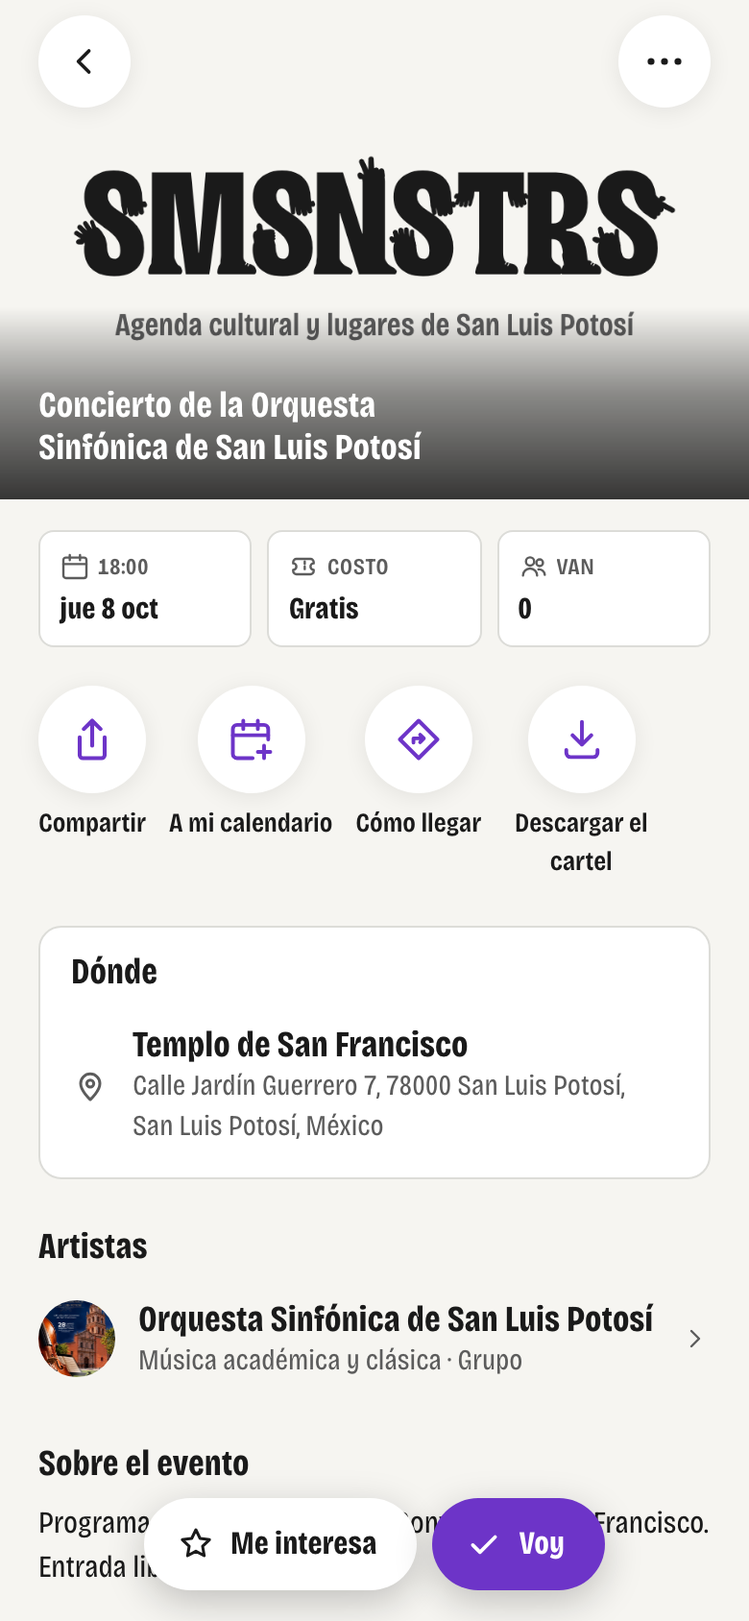
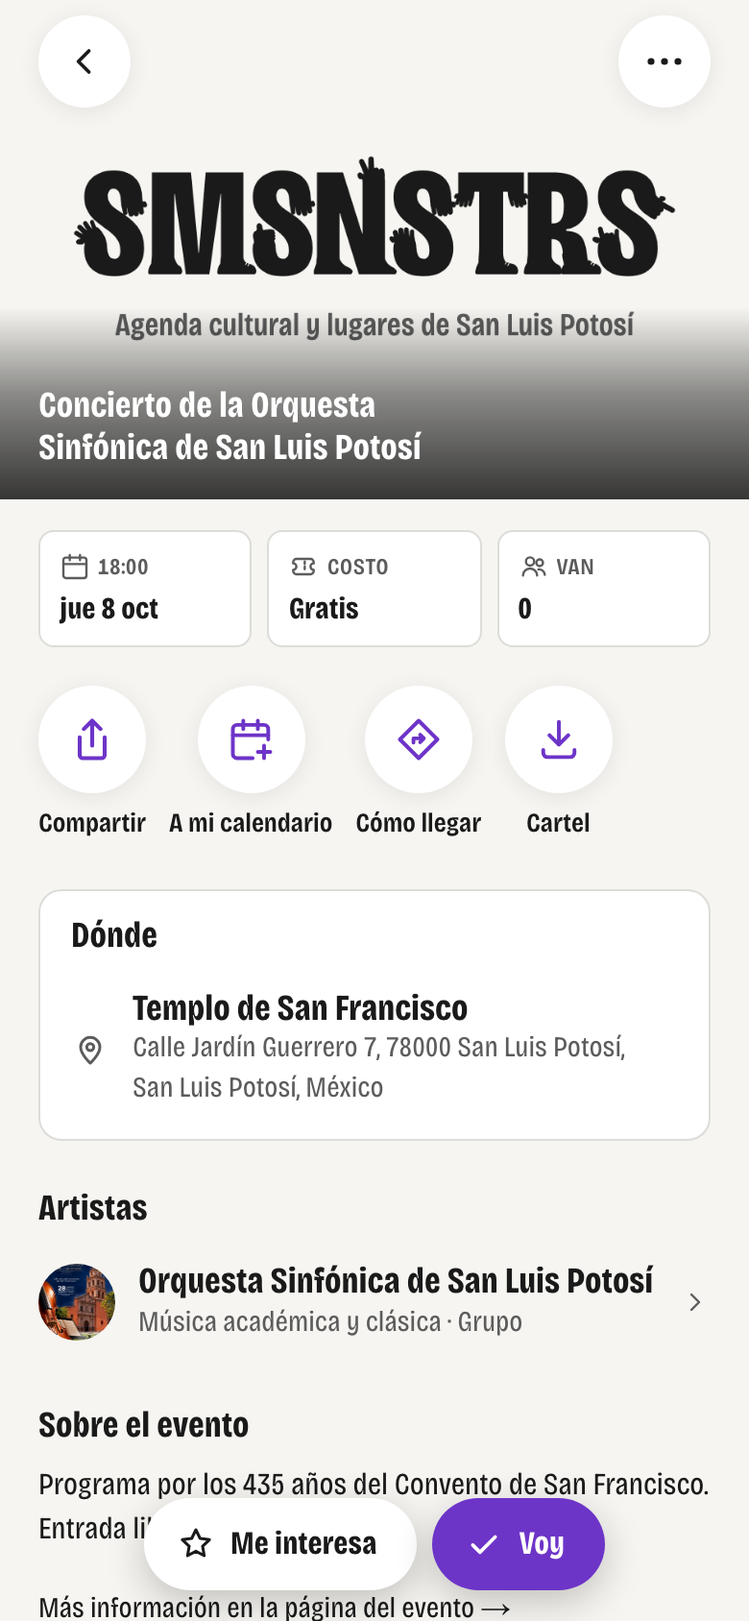
OL-317: letrero corto en la ficha y comentario del plugin corregido
En la ficha del evento el botón vuelve al letrero corto bajo el círculo (web «Cartel» / «Descargado» / «No se pudo»; app «En Fotos» / «Guardado» / «No se pudo»), con el nombre completo en aria-label en reposo; «Publicado» sigue con los textos completos. Se reponen los textos cortos como prop `corto` y se quita `claseTexto`. El comentario de FotosPlugin.swift ya no dice que la web cae en la hoja de compartir. Pruebas y capturas de la ficha (web y app) actualizadas.

diff --git a/src/components/BotonDescargarCartel.tsx b/src/components/BotonDescargarCartel.tsx
@@ -1,7 +1,7 @@
 "use client";
 
 import { useCallback, useEffect, useRef, useState, useSyncExternalStore, type MouseEvent, type ReactNode } from "react";
-import { destinoDelCartel, fotosDelSistema, textosDelCartel, type VentanaConFotos } from "@/lib/guardarCartel";
+import { destinoDelCartel, etiquetaDelCartel, fotosDelSistema, textosDelCartel, type VentanaConFotos } from "@/lib/guardarCartel";
 
 /** Cuánto se queda el aviso («Guardado en Fotos», «No se pudo guardar») antes de volver al texto de siempre. */
 const AVISO_MS = 4000;
@@ -15,8 +15,8 @@ type Props = {
   className: string;
   /** Lo que va antes del texto (el icono; en la ficha, dentro de su círculo). */
   icono?: ReactNode;
-  /** La clase del letrero (el texto va en su propio `<span>`): en la ficha, la que lo corta a dos líneas bajo su círculo. */
-  claseTexto?: string;
+  /** Letrero corto («Cartel», «En Fotos») para la ficha, donde va bajo un círculo como las demás acciones; el nombre completo queda en `aria-label`. */
+  corto?: boolean;
   /** Pide el cartel al montarse, para que el toque ya lo tenga y la descarga o el guardado salgan al instante. */
   precargar?: boolean;
 };
@@ -64,9 +64,10 @@ const hayFotosEnServidor = () => false;
  * La imagen vive en otro origen, así que se pide a `/api/cartel/[id]`, que la entrega como archivo. Es un enlace de verdad (mejora
  * progresiva, como `BotonCalendario`): sin JavaScript descarga igual.
  */
-export default function BotonDescargarCartel({ id, className, icono, claseTexto, precargar = false }: Props) {
+export default function BotonDescargarCartel({ id, className, icono, corto = false, precargar = false }: Props) {
   const conFotos = useSyncExternalStore(sinSuscripcion, hayFotos, hayFotosEnServidor);
-  const dice = textosDelCartel(destinoDelCartel({ conFotos }));
+  const destino = destinoDelCartel({ conFotos });
+  const dice = textosDelCartel(destino, corto);
   const href = `/api/cartel/${encodeURIComponent(id)}`;
   const [estado, setEstado] = useState<Estado>("reposo");
   const aviso = useRef<ReturnType<typeof setTimeout> | undefined>(undefined);
@@ -126,9 +127,9 @@ export default function BotonDescargarCartel({ id, className, icono, claseTexto,
   }
 
   return (
-    <a href={href} download className={className} onClick={alTocar} aria-busy={estado === "preparando" || undefined} aria-live="polite">
+    <a href={href} download className={className} onClick={alTocar} aria-label={corto && estado === "reposo" ? etiquetaDelCartel(destino) : undefined} aria-busy={estado === "preparando" || undefined} aria-live="polite">
       {icono}
-      <span className={claseTexto}>{dice[estado]}</span>
+      {dice[estado]}
     </a>
   );
 }

diff --git a/src/lib/guardarCartel.ts b/src/lib/guardarCartel.ts
@@ -32,8 +32,22 @@ export function destinoDelCartel({ conFotos }: { conFotos: boolean }): Destino {
 /** Lo que dice el botón en cada momento. Donde no se puede escribir en Fotos no se promete «Fotos»: se dice lo que hace, descargar. */
 export type Textos = { reposo: string; preparando: string; listo: string; fallo: string };
 
-export function textosDelCartel(destino: Destino): Textos {
-  return destino === "fotos"
-    ? { reposo: "Guardar en Fotos", preparando: "Guardando…", listo: "Guardado en Fotos", fallo: "No se pudo guardar" }
-    : { reposo: "Descargar el cartel", preparando: "Preparando…", listo: "Cartel descargado", fallo: "No se pudo descargar" };
+const COMPLETOS: Record<Destino, Textos> = {
+  fotos: { reposo: "Guardar en Fotos", preparando: "Guardando…", listo: "Guardado en Fotos", fallo: "No se pudo guardar" },
+  descarga: { reposo: "Descargar el cartel", preparando: "Preparando…", listo: "Cartel descargado", fallo: "No se pudo descargar" },
+};
+/** Los letreros cortos de la ficha (un círculo con su letrero debajo, como las demás acciones de la fila, a una línea). */
+const CORTOS: Record<Destino, Textos> = {
+  fotos: { reposo: "En Fotos", preparando: "Guardando…", listo: "Guardado", fallo: "No se pudo" },
+  descarga: { reposo: "Cartel", preparando: "Preparando…", listo: "Descargado", fallo: "No se pudo" },
+};
+
+/** Los textos del botón: completos («Publicado») o cortos (la ficha). */
+export function textosDelCartel(destino: Destino, corto = false): Textos {
+  return (corto ? CORTOS : COMPLETOS)[destino];
+}
+
+/** El nombre completo del botón en reposo: lo que lee el lector de pantalla cuando el letrero visible es corto. */
+export function etiquetaDelCartel(destino: Destino): string {
+  return COMPLETOS[destino].reposo;
 }

diff --git a/src/lib/guardarCartel.test.ts b/src/lib/guardarCartel.test.ts
@@ -1,5 +1,5 @@
 import { describe, expect, it } from "vitest";
-import { destinoDelCartel, fotosDelSistema, textosDelCartel } from "./guardarCartel";
+import { destinoDelCartel, etiquetaDelCartel, fotosDelSistema, textosDelCartel } from "./guardarCartel";
 
 const guardarFoto = async () => ({ guardado: true });
 
@@ -34,5 +34,16 @@ describe("destino y texto según el entorno", () => {
     const textos = textosDelCartel("descarga");
     expect(textos).toEqual({ reposo: "Descargar el cartel", preparando: "Preparando…", listo: "Cartel descargado", fallo: "No se pudo descargar" });
     expect(Object.values(textos).join(" ")).not.toMatch(/fotos/i);
+  });
+});
+
+describe("letreros cortos de la ficha", () => {
+  it("web: «Cartel» / «Descargado» / «No se pudo», con el nombre completo aparte", () => {
+    expect(textosDelCartel("descarga", true)).toEqual({ reposo: "Cartel", preparando: "Preparando…", listo: "Descargado", fallo: "No se pudo" });
+    expect(etiquetaDelCartel("descarga")).toBe("Descargar el cartel");
+  });
+  it("app: «En Fotos» / «Guardado» / «No se pudo», con el nombre completo aparte", () => {
+    expect(textosDelCartel("fotos", true)).toEqual({ reposo: "En Fotos", preparando: "Guardando…", listo: "Guardado", fallo: "No se pudo" });
+    expect(etiquetaDelCartel("fotos")).toBe("Guardar en Fotos");
   });
 });

diff --git a/apps/ios/ios/App/App/FotosPlugin.swift b/apps/ios/ios/App/App/FotosPlugin.swift
@@ -13,7 +13,7 @@ import UIKit
  *
  * Permiso mínimo: `PHAccessLevel.addOnly` (la app solo agrega a Fotos, nunca lee la fonoteca), con
  * `NSPhotoLibraryAddUsageDescription` en Info.plist. La primera vez iOS pregunta; si la persona dice que no, el método rechaza con el
- * código `permiso` y la web cae en la hoja de compartir (`src/components/BotonDescargarCartel.tsx`).
+ * código `permiso` y el botón de la web dice «No se pudo guardar» (`src/components/BotonDescargarCartel.tsx`; sin hoja de compartir ni descarga de respaldo).
  *
  * La web manda la imagen en base64 (`datos`) y su tipo (`tipo`). JPEG y PNG se guardan tal cual, byte por byte; cualquier otro formato que
  * iOS sepa leer (WebP, AVIF, GIF) se guarda como PNG para no depender de que Fotos lo acepte tal cual. Lo que no se pueda leer como imagen

diff --git a/src/app/eventos/[id]/page.tsx b/src/app/eventos/[id]/page.tsx
@@ -432,7 +432,7 @@ export default async function FichaEvento({ params, searchParams }: Params) {
                   <IconoDescarga />
                 </span>
               }
-              claseTexto={ficha.accionEtiqueta}
+              corto
             />
           )}
         </div>

diff --git a/docs/bitacora/2026/10/344-guardar-en-fotos.md b/docs/bitacora/2026/10/344-guardar-en-fotos.md
@@ -15,8 +15,8 @@ Un solo botón, `BotonDescargarCartel`, con dos comportamientos según el entorn
 
 | Dónde | Dice | Qué hace |
 |---|---|---|
-| La app de la tienda con el plugin (compilación 1.0 (5) en adelante) | «Guardar en Fotos» → «Guardando…» → «Guardado en Fotos» | Manda la imagen al plugin nativo, que la agrega a Fotos |
-| La web (Safari, la web instalada, cualquier navegador) | «Descargar el cartel» → «Preparando…» → «Cartel descargado» | Descarga el archivo (`<a download>` hacia el `blob:`, la función `guardar` de siempre) |
+| La app de la tienda con el plugin (compilación 1.0 (5) en adelante) | «Guardar en Fotos» → «Guardando…» → «Guardado en Fotos» (en la ficha, letrero corto: «En Fotos» → «Guardando…» → «Guardado») | Manda la imagen al plugin nativo, que la agrega a Fotos |
+| La web (Safari, la web instalada, cualquier navegador) | «Descargar el cartel» → «Preparando…» → «Cartel descargado» (en la ficha: «Cartel» → «Preparando…» → «Descargado») | Descarga el archivo (`<a download>` hacia el `blob:`, la función `guardar` de siempre) |
 | La app de una compilación vieja (sin el plugin) | como la web | descarga, como la web |
 
 Archivos nuevos:
@@ -27,8 +27,8 @@ Archivos nuevos:
 Archivos tocados:
 - `apps/ios/ios/App/App/MainViewController.swift` (registra el plugin) y `App.xcodeproj/project.pbxproj` (el archivo nuevo en el proyecto).
 - `apps/ios/ios/App/App/Info.plist`: `NSPhotoLibraryAddUsageDescription` = «Para guardar el cartel del evento en tus fotos».
-- `src/components/BotonDescargarCartel.tsx`: ya no usa `navigator.share` ni `canShare`; pierde las propiedades `titulo` (era solo de la hoja de compartir), `textos` y `etiqueta` (los textos salen de `lib/guardarCartel`); gana `claseTexto`: el texto va ahora en su propio `<span>`, para que en la ficha se corte a dos líneas bajo su círculo.
-- `src/app/nuevo/evento/Publicado.tsx` y `src/app/eventos/[id]/page.tsx`: quitan lo que ya no se pasa; la ficha le pone `ficha.accionEtiqueta` al letrero. Sin cambios de CSS.
+- `src/components/BotonDescargarCartel.tsx`: ya no usa `navigator.share` ni `canShare`; pierde las propiedades `titulo` (era solo de la hoja de compartir), `textos` y `etiqueta` (los textos salen de `lib/guardarCartel`); gana `corto`: la ficha pide los letreros cortos y el nombre completo va en `aria-label` en reposo (revisión del gestor).
+- `src/app/nuevo/evento/Publicado.tsx` y `src/app/eventos/[id]/page.tsx`: quitan lo que ya no se pasa; la ficha pasa `corto`. Sin cambios de CSS (`ficha.accionEtiqueta` existía antes para otras acciones y no se usa aquí).
 - `src/components/BotonDescargarCartel.componentes.test.mjs` y `src/app/nuevo/evento/AltaEvento.componentes.test.mjs`: ver «Pruebas».
 
 ## Cómo funciona
@@ -50,7 +50,7 @@ Archivos tocados:
 2. **Si Fotos falla en la app, no hay hoja de compartir de respaldo.** El encargo original decía «No se pudo guardar y la hoja de compartir como salida»; el cambio del founder («en web que se descargue como promete», «quita el camino de `navigator.share` con archivos del botón») lo quita del botón. Tampoco cae en la descarga: en el WKWebView de la app un `<a download>` hacia un `blob:` no tiene a dónde ir y podría sacar a la persona de la pantalla (el plugin de la app no implementa descargas). Con el permiso negado, la salida es «Compartir» (que no cambió) o activarlo en Ajustes. Si el founder quiere el respaldo, es una línea en `guardarCartel.ts` (`destinoDeRespaldo` se quitó, estaba en la primera versión).
 3. **La app vieja descarga con un `<a download>` hacia un `blob:`, no con la hoja de compartir** (como pidió el gestor). Antes (OL-304) en la app se abría la hoja con `navigator.share`. Es una regresión posible solo para quien tenga una compilación anterior a la 1.0 (5) y toque el botón: **no probé qué hace el WKWebView con esa descarga** (no hay compilación vieja a mano). Ver la lista para el iPhone.
 4. **Icono: el de descarga de siempre** (`IconoDescarga`, flecha a una bandeja). El set no tiene icono de foto y la flecha sirve para las dos cosas; no dibujé uno nuevo (suben `medidasEnDuro` del inventario).
-5. **Los avisos de cada momento** (`guardarCartel.ts`): app, «Guardando…» / «Guardado en Fotos» / «No se pudo guardar»; web, «Preparando…» / «Cartel descargado» / «No se pudo descargar» (los de OL-304, sin cambio). En la ficha el letrero ahora es el mismo texto completo («Descargar el cartel» o «Guardar en Fotos»), a dos líneas bajo su círculo: antes era la palabra corta «Cartel» con su nombre completo aparte. Con cuatro acciones caben en una sola fila a 390 (capturas 01 y 06). El nombre accesible es el letrero visible (ya no hace falta `aria-label`).
+5. **Los avisos de cada momento** (`guardarCartel.ts`): app, «Guardando…» / «Guardado en Fotos» / «No se pudo guardar»; web, «Preparando…» / «Cartel descargado» / «No se pudo descargar» (los de OL-304, sin cambio). **En la ficha, letrero corto bajo el círculo, como en OL-304** (ajuste del gestor tras revisar: con el texto completo a dos líneas se rompía el ritmo de la fila): web «Cartel» / «Descargado» / «No se pudo»; app «En Fotos» / «Guardado» / «No se pudo»; «Preparando…» y «Guardando…» iguales. En reposo el nombre completo («Descargar el cartel», «Guardar en Fotos») va en `aria-label` (se quita mientras avisa, para que se lea el aviso), como hacía la propiedad `etiqueta`; `BotonDescargarCartel` lo recibe como `corto`. En «Publicado» siguen los textos completos.
 6. **Siguen existiendo la propiedad `precargar`** (trae el cartel al montarse): la hoja de compartir ya no necesita el toque instantáneo, pero con el archivo ya en memoria la descarga o el guardado salen sin esperar la red; «Publicado» la sigue pidiendo, la ficha no (cada precarga es una salida de Storage).
 7. **«Publicado» se probó en la app solo con el plugin simulado** (no hay sesión en el simulador): la prueba de componentes pone `window.Capacitor.Plugins.Fotos` y comprueba que el toque le entrega el PNG. El plugin real se probó en la ficha, que es la misma pieza (ver «Pruebas»).
 8. **Mejora gratis (miniatura con «Añadir a Fotos»): ya está.** La miniatura de «Publicado» (`Renglon` → `ui/Imagen`) y la portada de la ficha (`Cartel` → `ui/Imagen`) son `<img>` de verdad (`next/image`, o `<img>` simple si no se optimiza), no fondos CSS. En Safari mantener presionado debería ofrecer «Añadir a Fotos». Dos matices: (a) la miniatura va dentro de un enlace (el menú también ofrece el enlace); (b) el visor a pantalla completa (`VisorImagen`, `-webkit-touch-callout: none` y `touch-action: none` por el pellizco y el arrastre) **bloquea** ese menú, a propósito. No lo toqué (componente firmado; el gesto largo choca con el pellizco). Dentro de la app, `.app-nativa *` quita el menú en todo (OL-205): ahí manda el botón.
@@ -58,9 +58,9 @@ Archivos tocados:
 
 ## Pruebas
 
-- `npm run lint` (solo el aviso anterior de `VisorImagen.componentes.test.mjs`), `npm run typecheck`, `npm test` (2260 pruebas en 152 archivos; +10 de esta pieza en `guardarCartel.test.ts`), `npm run inventario` sin novedades, `npm run medir` (26 pantallas × 4 anchos, sin novedades; la ficha del evento no enseña el botón en la prueba, como antes).
+- `npm run lint` (solo el aviso anterior de `VisorImagen.componentes.test.mjs`), `npm run typecheck`, `npm test` (2262 pruebas en 152 archivos; +8 de esta pieza en `guardarCartel.test.ts`), `npm run inventario` sin novedades, `npm run medir` (26 pantallas × 4 anchos, sin novedades; la ficha del evento no enseña el botón en la prueba, como antes).
 - `apps/ios`: `npm install` y `npx cap sync ios` correctos, sin plugins nuevos (5 de siempre). `xcodebuild` para el simulador, sin firmar: **BUILD SUCCEEDED**.
-- Pruebas de componentes (`test:componentes`) de lo tocado: `BotonDescargarCartel` 8 pruebas, `AltaEvento` 83. Las de `BotonDescargarCartel` cubren: web que comparte archivos, el botón **descarga** con el nombre de la ruta, dice «Cartel descargado», vuelve a su texto a los 4 s y **nunca** llama a `navigator.share`; web sin `share`; la ruta que falla («No se pudo descargar», no sale de la pantalla, el siguiente toque vuelve a pedirlo); `precargar`; la ficha (el letrero en su `<span>` con la clase que se le da); **la app con plugin** («Guardar en Fotos», «Guardando…», el plugin recibe el PNG tal cual en base64 y su tipo, ni hoja ni descarga, «Guardado en Fotos», vuelve a los 4 s); **Fotos que falla** por permiso o por otra causa (no abre hoja ni descarga, no sale de la pantalla, el siguiente toque reintenta); **la app vieja** (Capacitor sin plugin: «Descargar el cartel» y descarga). `AltaEvento`: el test de «con cartel» ahora comprueba la descarga (antes la hoja) y que `navigator.share` no se llamó; uno nuevo prueba «Publicado» en la app con «Guardar en Fotos». Las pruebas anteriores cambiaron de texto (de «Descargar el cartel»/«Cartel descargado» con hoja a descarga), como pide el cambio; ninguna se borró.
+- Pruebas de componentes (`test:componentes`) de lo tocado: `BotonDescargarCartel` 9 pruebas, `AltaEvento` 83. Las de `BotonDescargarCartel` cubren: web que comparte archivos, el botón **descarga** con el nombre de la ruta, dice «Cartel descargado», vuelve a su texto a los 4 s y **nunca** llama a `navigator.share`; web sin `share`; la ruta que falla («No se pudo descargar», no sale de la pantalla, el siguiente toque vuelve a pedirlo); `precargar`; la ficha en la web (letrero «Cartel», `aria-label` «Descargar el cartel» en reposo y sin él al avisar «Descargado»; «No se pudo» si falla) y en la app (letrero «En Fotos», `aria-label` «Guardar en Fotos», «Guardado» y «No se pudo»); **la app con plugin** («Guardar en Fotos», «Guardando…», el plugin recibe el PNG tal cual en base64 y su tipo, ni hoja ni descarga, «Guardado en Fotos», vuelve a los 4 s); **Fotos que falla** por permiso o por otra causa (no abre hoja ni descarga, no sale de la pantalla, el siguiente toque reintenta); **la app vieja** (Capacitor sin plugin: «Descargar el cartel» y descarga). `AltaEvento`: el test de «con cartel» ahora comprueba la descarga (antes la hoja) y que `navigator.share` no se llamó; uno nuevo prueba «Publicado» en la app con «Guardar en Fotos». Las pruebas anteriores cambiaron de texto (de «Descargar el cartel»/«Cartel descargado» con hoja a descarga), como pide el cambio; ninguna se borró.
 - **Simulador (iPhone 17 Pro propio, iOS 26.3; el «FLOWYA iPhone 15 Pro» no arrancó la app: «system shell probably crashed»):** se compiló la app sin firmar con `server.url` temporal a la web local (`next build && next start -p 3101` contra el respaldo local con un «Storage» inventado, puertos 8843 y 3101 porque el 8842 lo usaba otro chat) y un guion temporal en `layout.tsx` que tocaba solo el botón (el panel de control del simulador no estaba concedido: no pude tocar a mano). **Todo lo temporal se revirtió antes del commit** (`server.url`, el guion, y `Package.resolved`, que Xcode había regenerado). Resultado:
   - Con el permiso concedido (`simctl privacy grant photos-add`): la ficha de la app dice «Guardar en Fotos»; al tocar, «Guardado en Fotos». En la fototeca del simulador aparece **`IMG_0007.PNG`, 1200×630, agregada en ese momento, con el mismo `shasum` que el archivo de origen** (`7da97cd1…`): la imagen llegó a Fotos byte por byte. (No pude abrir la app Fotos para fotografiarla: su pantalla de «Novedades» pide un toque y no tengo cómo dárselo; la evidencia es el archivo y la base `Photos.sqlite`.)
   - Con el permiso revocado (`revoke photos-add`): «No se pudo guardar», sin hoja, sin descarga y sin salir de la pantalla; la fototeca no cambió.
@@ -68,13 +68,13 @@ Archivos tocados:
 
 ## Capturas (`docs/rediseno/capturas-344/`; las de Chrome, 390×844 a 2×; las de la app, 402×874 del simulador a 3× y reducidas a 2×; todas abiertas y revisadas)
 
-1. `344-01-ficha-web-descargar-el-cartel`: la ficha del evento en la web a 390: portada, los tres números y, en una sola fila, «Compartir», «A mi calendario», «Cómo llegar» y «Descargar el cartel» (con la flecha, el letrero a dos líneas).
-   `344-01b-ficha-web-cartel-descargado`: lo mismo tras tocar: el botón dice «Cartel descargado»; la descarga entregó `cartel-concierto-de-la-orquesta-sinfonica-de-san-luis-potosi.png`.
+1. `344-01-ficha-web-descargar-el-cartel`: la ficha del evento en la web a 390: portada, los tres números y, en una sola fila con los letreros a una línea, «Compartir», «A mi calendario», «Cómo llegar» y «Cartel» (la flecha de descarga).
+   `344-01b-ficha-web-cartel-descargado`: lo mismo tras tocar: el letrero dice «Descargado»; la descarga entregó `cartel-concierto-de-la-orquesta-sinfonica-de-san-luis-potosi.png`.
 2. `344-02-publicado-web-descargar-el-cartel` y `344-03-publicado-web-cartel-descargado`: «Publicado» con cartel en la web: sello verde, «Evento publicado», la tarjeta con su miniatura y, abajo, «Compartir» violeta, el secundario «Descargar el cartel» (y luego «Cartel descargado») y «Publicar otro» subrayado. Igual que `capturas-332/332-02` salvo la hoja de compartir que ya no se abre.
 3. `344-04-publicado-app-guardar-en-fotos` y `344-05-publicado-app-guardado-en-fotos`: lo mismo con el plugin simulado (la app): el secundario dice «Guardar en Fotos» y luego «Guardado en Fotos».
-4. `344-06-app-ficha-guardado-en-fotos` (simulador, la app real): la ficha con «Guardado en Fotos» bajo el círculo de descarga, cuatro acciones en una fila. Notar que la portada muestra el logotipo y no el cartel porque el respaldo local sirve la imagen desde otro puerto: es del respaldo, no de la pieza.
-   `344-07-app-ficha-guardar-en-fotos`: la misma ficha en reposo, «Guardar en Fotos» a dos líneas.
-   `344-08-app-ficha-no-se-pudo-guardar-recorte`: recorte de la fila de acciones con el permiso negado: «No se pudo guardar» a dos líneas.
+4. `344-06-app-ficha-guardado` (simulador, la app real): la ficha con «Guardado» bajo el círculo de descarga, cuatro acciones en una fila a una línea. La portada muestra el logotipo y no el cartel porque el respaldo local sirve la imagen desde otro puerto: es del respaldo, no de la pieza.
+   `344-07-app-ficha-en-fotos`: la misma ficha en reposo, «En Fotos».
+   `344-08-app-ficha-no-se-pudo`: con el permiso revocado, «No se pudo» (captura completa de la ficha).
 
 ## Para probar en el iPhone (el founder)
 

diff --git a/docs/ops/OPEN_LOOPS.md b/docs/ops/OPEN_LOOPS.md
@@ -14,7 +14,7 @@
 
 ## Ahora
 
-- **OL-317 · «Guardar en Fotos» el cartel del evento (2026-10-06).** Pedido del founder («agrega la opción de guardar en Fotos del celular… lo más práctico es eso») y, a mitad de la pieza, «en web que se descargue como promete». Operador Claude Sonnet 5.5 (agente del gestor IV), rama `guardar-en-fotos` sobre `origin/main` `54bfb80f`, bitácora [344](../bitacora/2026/10/344-guardar-en-fotos.md), capturas `docs/rediseno/capturas-344/` (9). Sin migraciones; **pide la compilación 1.0 (5) de TestFlight** (código nativo nuevo). Un solo botón, `BotonDescargarCartel`, dos comportamientos: en la app con el plugin dice «Guardar en Fotos» y manda la imagen (base64) a `FotosPlugin` (`PHPhotoLibrary`, `addOnly`, `NSPhotoLibraryAddUsageDescription`; JPEG y PNG byte por byte, lo demás como PNG; plugin local en Swift y no `@capacitor-community/media` por SDWebImage y su superficie de lectura); en la web y en la app vieja dice «Descargar el cartel» y descarga el archivo (`<a download>` hacia el `blob:`), sin `navigator.share`. Si Fotos falla: «No se pudo guardar», sin respaldo (ni hoja ni descarga). `src/lib/guardarCartel.ts` decide destino y textos. Probado: 2260 unitarias, componentes (8 del botón, 83 de `AltaEvento`), `xcodebuild` para simulador sin firmar y, en un simulador, el cartel llegó a Fotos con el mismo `shasum` que el original. Falta el iPhone real. Las miniaturas ya son `<img>` (el visor a pantalla completa bloquea el menú «Añadir a Fotos» a propósito).
+- **OL-317 · «Guardar en Fotos» el cartel del evento (2026-10-06).** Pedido del founder («agrega la opción de guardar en Fotos del celular… lo más práctico es eso») y, a mitad de la pieza, «en web que se descargue como promete». Operador Claude Sonnet 5.5 (agente del gestor IV), rama `guardar-en-fotos` sobre `origin/main` `54bfb80f`, bitácora [344](../bitacora/2026/10/344-guardar-en-fotos.md), capturas `docs/rediseno/capturas-344/` (9). Sin migraciones; **pide la compilación 1.0 (5) de TestFlight** (código nativo nuevo). Un solo botón, `BotonDescargarCartel`, dos comportamientos: en la app con el plugin dice «Guardar en Fotos» y manda la imagen (base64) a `FotosPlugin` (`PHPhotoLibrary`, `addOnly`, `NSPhotoLibraryAddUsageDescription`; JPEG y PNG byte por byte, lo demás como PNG; plugin local en Swift y no `@capacitor-community/media` por SDWebImage y su superficie de lectura); en la web y en la app vieja dice «Descargar el cartel» y descarga el archivo (`<a download>` hacia el `blob:`), sin `navigator.share`. Si Fotos falla: «No se pudo guardar», sin respaldo (ni hoja ni descarga). `src/lib/guardarCartel.ts` decide destino y textos. Probado: 2262 unitarias, componentes (8 del botón, 83 de `AltaEvento`), `xcodebuild` para simulador sin firmar y, en un simulador, el cartel llegó a Fotos con el mismo `shasum` que el original. Falta el iPhone real. Las miniaturas ya son `<img>` (el visor a pantalla completa bloquea el menú «Añadir a Fotos» a propósito).
 - **OL-314 · Prototipo firmado: alta de lugar y de artista por pasos (2026-10-06).** Pieza del Gestor IV, solo prototipo: `docs/rediseno/prototipos/lugar-artista-por-pasos.html` (rama `prototipo-lugar-artista-pasos`), bitácora [342](../bitacora/2026/10/342-lugar-artista-por-pasos-firmado.md). Firmado por el founder en la versión 6 tras seis vueltas: sin pantalla de elegir (la tira de tipos al pie del primer paso, marcada según el «+»); el lugar lleva horario, con «Agregar otro horario» para varias franjas sin tope y lo que se enseña lo estructura el sistema (ley de Postel: ordena por día, une horas encimadas, agrupa días iguales, dice qué días cierra); la subcategoría del artista se pregunta tras la disciplina con las ya usadas primero, «Otra…» y «Seguir sin especificar»; icono de etiqueta para la disciplina; **los negocios SÍ entran al directorio** (Decidido abajo). Construcción: OL-315 (lugar) y OL-316 (artista).
 - **OL-313 · La tira Evento · Lugar · Artista vuelve en el primer paso del alta de evento (2026-10-06).** Corrección urgente tras OL-312: el founder vio en producción que el «+» ya no ofrecía registrar un lugar o un artista («aunque no estén las nuevas versiones no elimines lo que ya tenemos»). Operador Claude Sonnet 5.5 (agente del gestor IV), rama `tira-en-el-primer-paso` sobre `origin/main` `bc1f983d`, bitácora [341](../bitacora/2026/10/341-tira-en-el-primer-paso.md), capturas `docs/rediseno/capturas-341/`. Sin migraciones. `src/app/nuevo/TiraTipos.tsx` (+ CSS) es la tira de `Alta.tsx` sacada a una pieza compartida (misma pinta; `destinos` = enlace, botón o esta pantalla); `AltaEvento` la pinta solo en el primer paso (no durante la espera del cartel) con «Evento» marcado (`aria-current`) y Lugar y Artista como enlaces a `enlaceAltaDeTipo` (`/nuevo?tipo=lugar|artista`, con `&ciudad=` si el flujo la trae); reemplaza la entrada y pasa por la guardia de salida (en el primer paso no pregunta; con algo escrito y Atrás, sí). `/nuevo` se ve y se comporta igual. Medición: el presupuesto de `s15` sube de 20 a 21 nodos (la tira suma 4 sobre los 17 de hoy). Pendiente: probar en el iPhone.
 - **OL-312 · El alta por pasos es la única alta de evento (2026-10-06).** Pieza 6 del plan de la bitácora 323. Operador Claude Opus 5.5 (agente del gestor IV), rama `nuevo-por-pasos` sobre `origin/main` `e3b4a1c2`, bitácora [340](../bitacora/2026/10/340-nuevo-por-pasos.md), capturas `docs/rediseno/capturas-340/`. Sin migraciones. `/nuevo` sin tipo, con `tipo=evento` o con `lugar`/`artista`/`desde` responde 308 (en `src/proxy.ts`; la página lo repite) a `/nuevo/evento` con esos datos; `/nuevo/evento` arranca con el lugar (`?lugar=`, «¿Dónde es?» no se pregunta), el artista (`?artista=`) o el evento que se duplica (`?desde=`: nombre, sitio, costo, quién, descripción y enlace; entra en «¿Qué día es?»), lo que vino al abrir no lo pisa el cartel y la ✕ vuelve a la ficha de entrada (`arranque.ts`). Enlaces directos (`enlaceAltaEvento`) en el «+», las fichas de lugar, artista y evento, la hoja de ciudades y Entrar. `FormularioEvento` solo edita; se retiran `TarjetaCartel`, `borrador.ts`, la redirección `?nuevo=1` de `crearEvento` y su aviso en la ficha, y lo que solo servía al alta vieja (`sugerirInicio`, partes de `estadoCartel`/`gestosFlyer`, el CSS del cartel del canon). `/nuevo` queda con lugar y artista; «Evento» en la tira es un enlace. Medición: `s03` retirada (es el 308). Pendiente: probar en el iPhone (Safari, web instalada y TestFlight).
